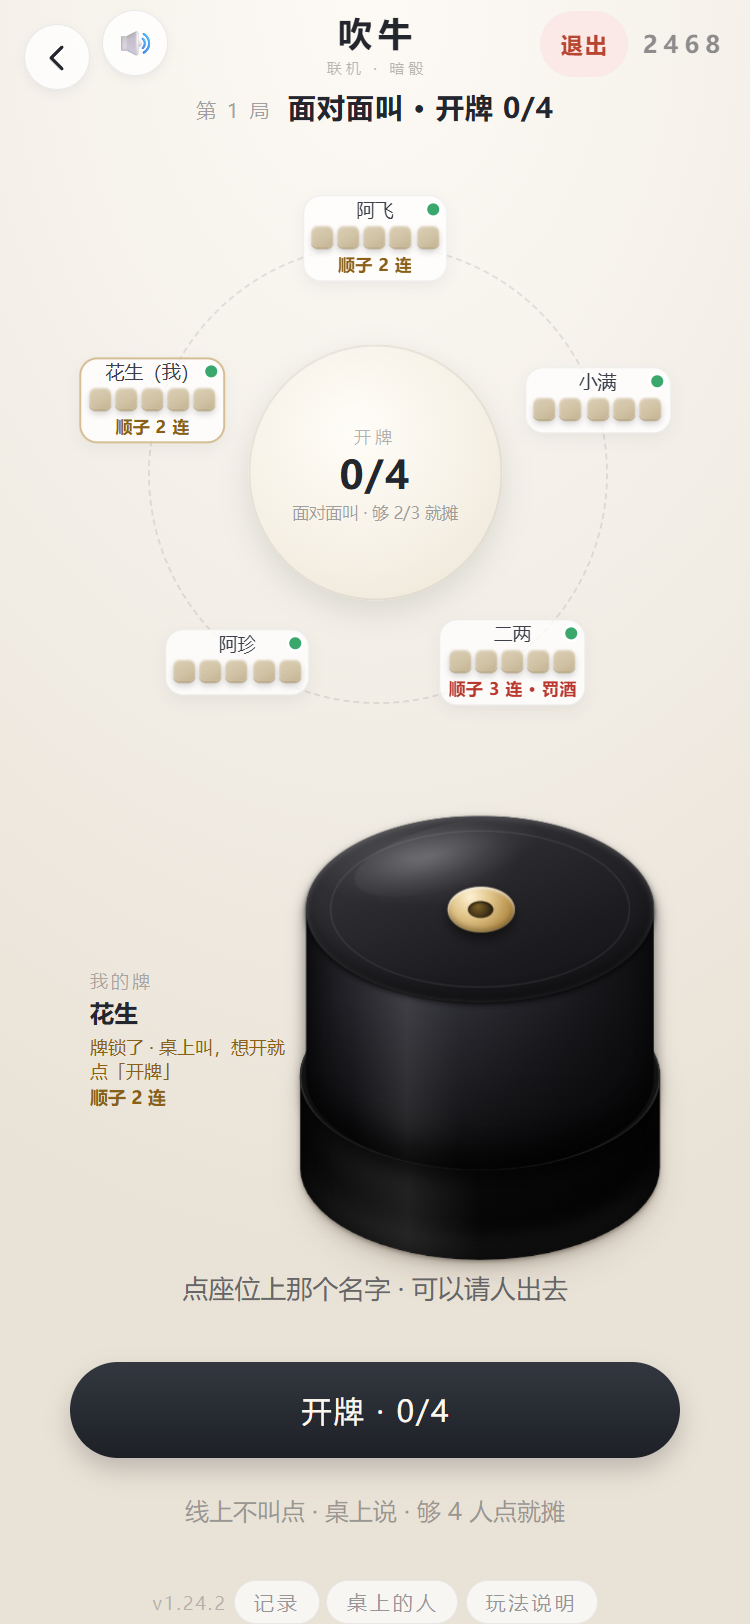
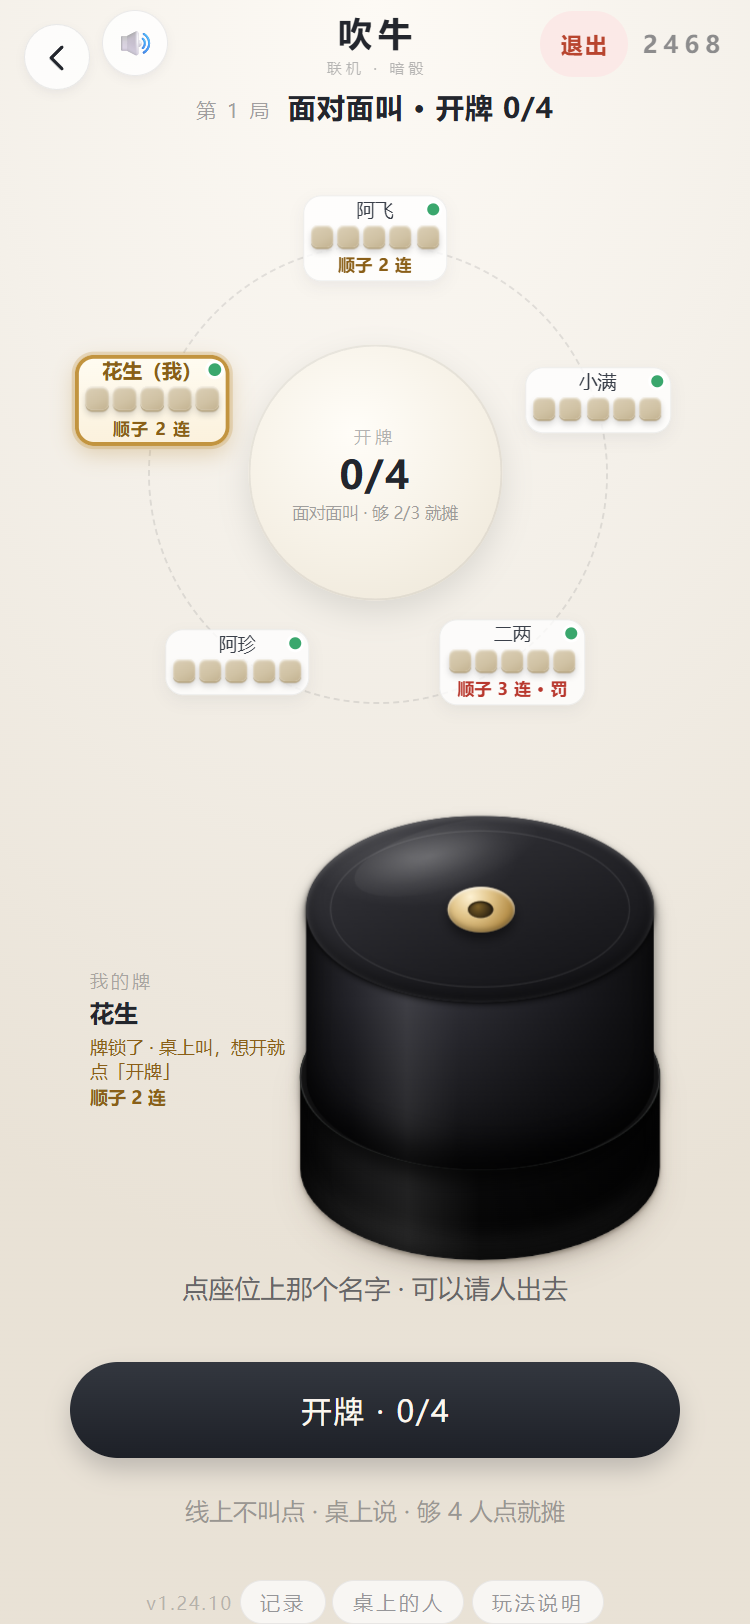
docs(liar): 重拍联机牌桌图，三格那张补上「长按顶上那行字」的入口标注
- net-liar-dbg-zone.png：除了骰盅左边三格，顶栏「第 1 局 面对面叫 · 开牌 0/4」
  也框上了，旁边写「长按这行字 = 调试面板」—— 原来只圈三格，读者看得见格子
  却不知道面板从哪儿叫出来
- roll / call / reveal / dbg / who / kick-vote / log / quit 一并按 v1.24.10 重拍，
  顺带把 call 那张里过期的「顺子 3 连 · 罚酒」换成「· 罚」

Changed region(s): [[0.184, 0.9852, 0.7973, 1.0], [0.092, 0.2155, 0.3067, 0.2771], [0.5827, 0.4002, 0.7667, 0.431]]

diff --git a/README.md b/README.md
@@ -236,12 +236,12 @@
 面板整张照单机搬过来，装填走服务端，只改自己名下那一手。
 
 <p align="center">
-  <img src="docs/shots/net-liar-dbg-zone.png" width="24%" alt="三格在骰盅左边那条竖空当：1 随机顺子、2 点骰改点、3 随机豹子（虚线框是画给你看的，App 里隐形）">
+  <img src="docs/shots/net-liar-dbg-zone.png" width="24%" alt="两个入口画在一张图上：顶上「第 1 局 面对面叫 · 开牌 0/4」那行字长按 1.2 秒弹面板；骰盅左边那条竖空当是三格（1 随机顺子、2 点骰改点、3 随机豹子），虚线框是画给你看的，App 里隐形">
   <img src="docs/shots/net-liar-who.png" width="24%" alt="桌上的人：普通玩家也能看到「发起投票 / 同意 1/2」，不再只有房主能踢">
   <img src="docs/shots/net-liar-kick-vote.png" width="24%" alt="点「同意 1/2」弹出的确认层：同意请出去">
 </p>
 <p align="center">
-  <sub>三格位置（默认 1 随机顺子 / 2 点骰改点 / 3 随机豹子）→ 桌上的人（发起投票）→ 投票确认</sub>
+  <sub>长按顶上那行字 = 面板；左边那条竖带是三格（1 顺子 / 2 改点 / 3 豹子）→ 桌上的人（发起投票）→ 投票确认</sub>
 </p>
 
 | 面板上有什么 | 说明 |
